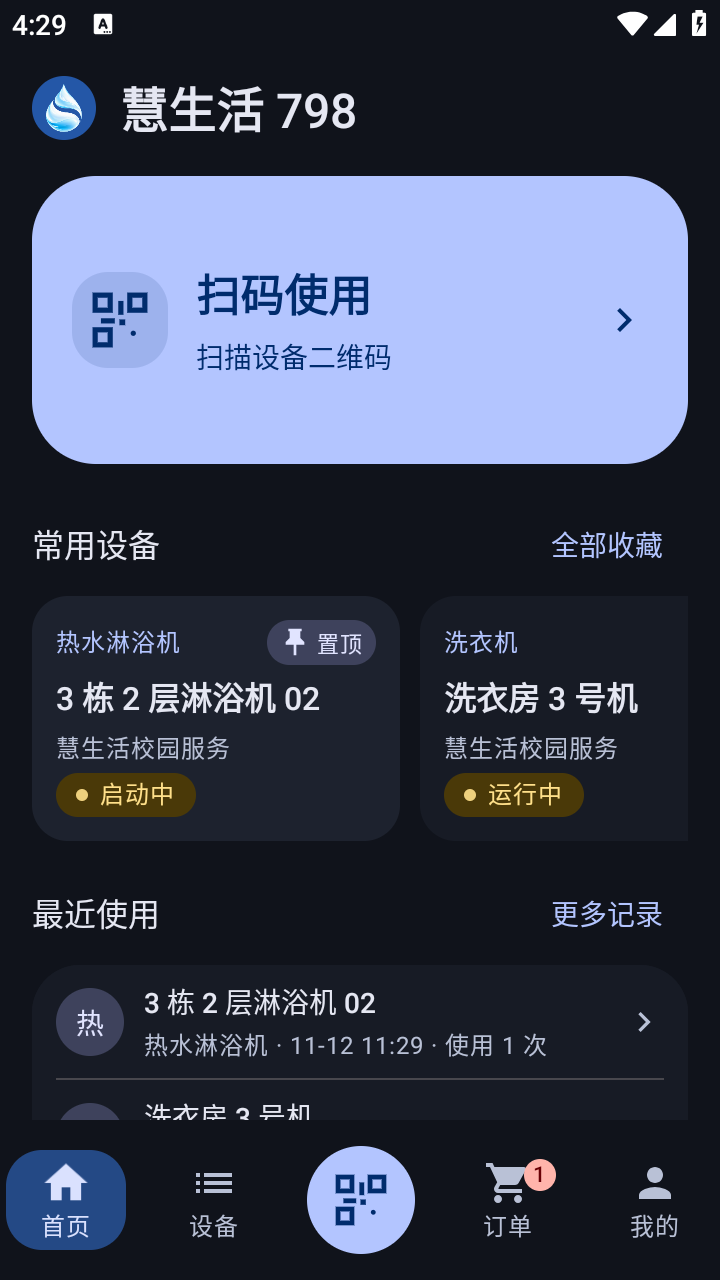
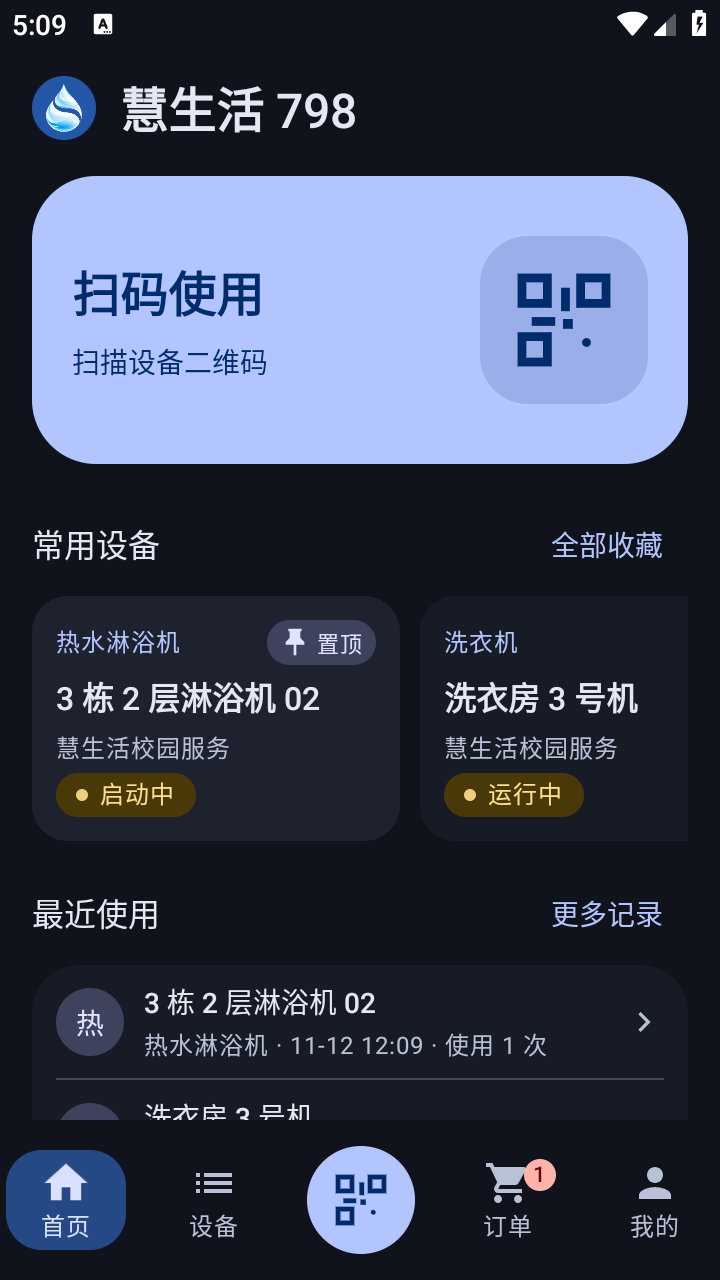
fix(ui): 重新适配首页扫码卡内部布局

diff --git a/SmartLife798/app/src/main/java/com/smartlife798/app/ui/HomeScreen.kt b/SmartLife798/app/src/main/java/com/smartlife798/app/ui/HomeScreen.kt
@@ -289,26 +289,25 @@ private fun ScanHeroCard(onScan: () -> Unit, modifier: Modifier = Modifier) {
                 .heightIn(min = 144.dp)
                 .padding(horizontal = 20.dp, vertical = AppLayout.Card),
             verticalAlignment = Alignment.CenterVertically,
-            horizontalArrangement = Arrangement.spacedBy(14.dp),
+            horizontalArrangement = Arrangement.spacedBy(16.dp),
         ) {
-            Box(
-                modifier = Modifier
-                    .size(48.dp)
-                    .clip(MaterialTheme.shapes.medium)
-                    .background(palette.content.copy(alpha = 0.12f)),
-                contentAlignment = Alignment.Center,
-            ) {
-                QrGlyph(palette.content, Modifier.size(26.dp))
-            }
-            Column(Modifier.weight(1f), verticalArrangement = Arrangement.spacedBy(4.dp)) {
+            Column(Modifier.weight(1f), verticalArrangement = Arrangement.spacedBy(6.dp)) {
                 Text(
                     "扫码使用",
-                    style = MaterialTheme.typography.titleLarge,
+                    style = MaterialTheme.typography.headlineSmall,
                     fontWeight = FontWeight.SemiBold,
                 )
                 Text("扫描设备二维码", style = MaterialTheme.typography.bodyMedium)
             }
-            Icon(Icons.AutoMirrored.Filled.KeyboardArrowRight, contentDescription = null)
+            Box(
+                modifier = Modifier
+                    .size(84.dp)
+                    .clip(MaterialTheme.shapes.large)
+                    .background(palette.content.copy(alpha = 0.14f)),
+                contentAlignment = Alignment.Center,
+            ) {
+                QrGlyph(palette.content, Modifier.size(44.dp))
+            }
         }
     }
 }

diff --git a/SmartLife798/app/src/androidTest/java/com/smartlife798/app/VisualAlignmentChecks.kt b/SmartLife798/app/src/androidTest/java/com/smartlife798/app/VisualAlignmentChecks.kt
@@ -173,6 +173,14 @@ object VisualAlignmentChecks {
             await { find(test, "手动输入") != null }
             back()
             await { find(test, "扫码使用") != null }
+            stage = "scanner QR icon tap"
+            SystemClock.sleep(500)
+            val iconCard = cardBounds(test, "扫码使用")
+            val iconX = iconCard.right - (62 * density).toInt()
+            shell(test, "input tap $iconX ${iconCard.centerY()}")
+            await { find(test, "手动输入") != null }
+            back()
+            await { find(test, "扫码使用") != null }
             stage = "login"
             test.runOnMainSync { vm.logout() }
             await {

diff --git a/docs/02-功能设计与UI方案.md b/docs/02-功能设计与UI方案.md
@@ -150,7 +150,7 @@ App
 - 顶部显示应用图标与「慧生活 798」，页面沿统一边距对齐，普通分组间隔为 12dp，支持下拉刷新。
 - **进行中使用卡片**优先置于扫码入口上方（主题 tertiary 色）：受理后先显示「启动待确认」，不显示用时或声称运行；确认后显示服务端状态、更新时间与本机用时。结束使用为卡片主按钮，下方提供查看设备和使用记录。结束期间保持卡片和「正在结束…」；未确认则提示并保留查询入口。返回首页与重建恢复、轮询及并发规则见 [启动确认与对账](03-技术方案与开发计划.md#31-全自动刷新无手动刷新按钮)。
 
-- **扫码主卡**：二维码图标、操作标题与一句说明，整卡最小高度为 144dp，上下与相邻区块至少间隔 16dp，点击卡片打开相机。
+- **扫码主卡**：左侧放操作标题与说明，右侧放二维码图标，整卡最小高度为 144dp，上下与相邻区块至少间隔 16dp，点击卡片打开相机。
 - **常用设备**采用横滑卡片。多个收藏时，360dp 默认字号下单卡宽 184dp，让下一台设备露出更多；内容区能容纳两张易读卡片时并排完整展示。窄屏大字下卡片随字号加宽，单个收藏时占满内容区。卡片显示类型、名称、位置或编号、状态及置顶标记。
 - **最近使用**在同一容器中列出最多四条记录，使用紧凑的分隔行，每行触控区域至少 48dp；显示设备名称、类型、日期时间和使用次数。
 - 常用设备为空时提示从设备详情收藏，最近使用为空时提示暂无记录。
@@ -316,7 +316,7 @@ App
 - 底部导航（Expressive）：4 项 + 中央 54dp 官方增强扫码按钮；选中项为药丸高亮 + 图标 1.08 倍弹性缩放 + 颜色渐变，未选中项使用 onSurfaceVariant。待付角标放在图标槽内，不越过药丸裁剪边界，保持大字体下数字完整与各项图标/文字基线一致。
 - 主题采用官方 `MaterialExpressiveTheme` 与 `MotionScheme.expressive()`；主按钮、文字和图标按钮使用官方按压形变。设备/订单分栏、筛选、设备类型、模式和渠道使用带自动溢出的 `ButtonGroup`；全部可见时按压扩张 25%，相邻按钮随之让位并回弹，溢出时停用宽度扩张以免覆盖「更多」，保留官方按钮形变。启动页与外观使用共享交互源的官方宽度动效，保持仅背景选中和单选语义，大字选项自然换行并垂直居中。扫码使用增强 `FilledIconButton`。刷新指示器使用 `surfaceContainerHigh` 中性底与 `primary` 图形，保留官方下拉与形变加载，浅色、深色及动态取色共用主题语义色。设备/订单第一行分栏使用实心主色选中，第二行类型/账单筛选使用低强调色调与较小文字，未选中项也使用 surfaceContainerHighest 背景与 outlineVariant 边界；统一选择按钮的基础与选中圆角为 14dp，按压仍使用官方形变。按钮、选择与加载沿用系统动画倍率，无额外固定操作锁。
 - 加载：页面使用 `ContainedLoadingIndicator`，按钮内使用 `LoadingIndicator`，下拉刷新使用固定组合的官方轻量 `PullToRefreshDefaults.Indicator`，避免手势首帧创建复杂形变组件；拉动距离、松手和刷新沿用同一个手势状态。长任务与更新下载使用 `LinearWavyProgressIndicator`；下载仍显示真实字节百分比，未确定进度不伪装为确定进度。删除旧自绘波浪实现。
-- 首页扫码主卡与中央扫码按钮共用高亮主题配对和二维码图标；主卡使用 titleLarge 标题和 bodyMedium 说明。首页的触控反馈沿用 Material 组件，空态使用简短的文字提示。
+- 首页扫码主卡与中央扫码按钮共用高亮主题配对和二维码图标；主卡使用 headlineSmall 标题和 bodyMedium 说明，二维码图标位于 84dp 色块内。首页的触控反馈沿用 Material 组件，空态使用简短的文字提示。
 - 按压反馈由增强组件的形状与主题动效驱动；共享卡片与页面切换规则见下节，不为按钮再叠统一缩放或固定时长。
 - 状态胶囊、指标块、信息行、空态、错误态、提示条、设备卡、账单行、底部详情面板。
 
@@ -361,7 +361,7 @@ App
 
 | 页面 | 文件 | 来源与限制 |
 |---|---|---|
-| 首页 | [home.png](../screenshots/home.png) | 2.2.9 / 89 离线开发构建，API 28，默认字号 |
+| 首页 | [home.png](../screenshots/home.png) | 2.2.10 / 90 离线开发构建，API 28，默认字号 |
 | 设备 | [devices.png](../screenshots/devices.png) | 2.1.1，浅色列表、置顶优先与可辨识的未选中按钮 |
 | 订单 | [orders.png](../screenshots/orders.png) | 2.1.1，普通记录 |
 | 待付款 | [preview_bills.png](../screenshots/preview_bills.png) | 2.1.1，账单筛选 |
@@ -373,7 +373,7 @@ App
 | 提示条 | [notice.png](../screenshots/notice.png) | 1.19.6，真实 Snackbar + 虚构签到响应 |
 | 账单详情 | [bill_detail.png](../screenshots/bill_detail.png) | 当前离线开发构建，固定视口、左暂不支付右去支付且等宽等高 |
 | 浅色支付面板 | [payment.png](../screenshots/payment.png) | 2.1.1，仅读取渠道，零付款/命令请求 |
-| 深色首页 | [dark.png](../screenshots/dark.png) | 2.2.9 / 89 离线开发构建，API 28，默认字号 |
+| 深色首页 | [dark.png](../screenshots/dark.png) | 2.2.10 / 90 离线开发构建，API 28，默认字号 |
 | 深色外观 | [appearance_dark.png](../screenshots/appearance_dark.png) | 本次样式开发构建 2.1.2 / 70，API 28，深色更新按钮与选项层级 |
 | 深色支付面板 | [payment_dark.png](../screenshots/payment_dark.png) | 2.1.1，未提交付款 |
 | 首次使用 | [guide-first.png](../screenshots/guide-first.png) | 2.1.1，独立离线包，三页基础卡 |

diff --git a/README.md b/README.md
@@ -6,7 +6,7 @@
 |---|---|
 | 正式版包名 | `com.smartlife798.app` |
 | Beta 版包名 | `com.smartlife798.app.debug` |
-| 当前版本 | `2.2.9`（`versionCode 89`） |
+| 当前版本 | `2.2.10`（`versionCode 90`） |
 | 技术栈 | Kotlin 2.2 · Jetpack Compose (Material 3 Expressive) · OkHttp · CameraX + ML Kit · Alipay SDK |
 | 最低版本 | Android 7.0（API 24） |
 | 正式发布 | [最新 Release](https://github.com/wu-shanglin/Smartlife798/releases/latest) |
@@ -15,7 +15,7 @@
 
 ## 当前版本
 
-**2.2.9 / 89**（开发候选）：首页扫码卡最小高度提高至 144dp，增加与相邻区块的间距；设备详情移除「订单」跳转。
+**2.2.10 / 90**（开发候选）：首页扫码卡采用左侧文字、右侧二维码图标的布局。
 
 **2.1.11 / 79** 适配原版 3.1.10 短信登录签名，补齐登录请求的 `sign` 参数。签名通过原版合成向量及离线登录验证，真实账号验收待完成。详见 [登录签名](docs/01-逆向分析报告.md#51-登录与账号)。
 
@@ -49,13 +49,13 @@
 
 ## 构建与产物
 
-2.2.9 为开发候选版本，日常试装使用独立 Debug 包。
+2.2.10 为开发候选版本，日常试装使用独立 Debug 包。
 
 唯一 Android 工程为 `SmartLife798/`；先按 [构建与运行](docs/03-技术方案与开发计划.md#4-构建与运行) 准备 JDK/SDK、本机 `local.properties`，再按 [检查与证据](docs/06-工程规范与路线图.md#2-检查与证据) 执行适用检查。release 签名及产物准备见 [版本与发布](docs/06-工程规范与路线图.md#3-版本与发布)。
 
 | 本地构建 | 文件 |
 |---|---|
-| 产物 | [`dist/SmartLife798-2.2.9-release.apk`](dist/SmartLife798-2.2.9-release.apk) |
+| 产物 | [`dist/SmartLife798-2.2.10-release.apk`](dist/SmartLife798-2.2.10-release.apk) |
 
 日常试装使用 `SmartLife798/app/build/outputs/apk/debug/app-debug.apk`。桌面的「慧生活 798 Beta 版」可与正式版并存，分别保存应用数据。上表是正式发布时的产物路径，只有明确授权打包 Release 并发布后才生成。
 
@@ -65,7 +65,7 @@
 
 ## 截图
 
-浅色、深色首页与设备详情截图来自 2.2.9 / 89 的 API 28 离线构建；其他主要截图来自 2.1.1 / 69 候选的独立 `.offline` 夹具，使用真实 Compose 页面与终止式传输采集；此前默认字号与窄屏大字完成操作回归，不代表真机帧率、签到、充值或支付验收。提示条保留历史夹具来源。来源与限制见 [截图清单](docs/02-功能设计与UI方案.md#7-界面截图)。
+浅色和深色首页截图来自 2.2.10 / 90 的 API 28 离线构建，设备详情截图来自 2.2.9 / 89；其他主要截图来自 2.1.1 / 69 候选的独立 `.offline` 夹具，使用真实 Compose 页面与终止式传输采集；此前默认字号与窄屏大字完成操作回归，不代表真机帧率、签到、充值或支付验收。提示条保留历史夹具来源。来源与限制见 [截图清单](docs/02-功能设计与UI方案.md#7-界面截图)。
 
 | 首页 | 设备 | 订单 |
 |---|---|---|

diff --git a/CHANGELOG.md b/CHANGELOG.md
@@ -7,6 +7,8 @@
 
 ## [Unreleased]
 
+- 同步扫码卡内部排版说明与浅色、深色首页截图。
+
 - 同步首页扫码卡、设备详情操作区的设计说明与截图。
 
 - 更新紧凑版首页设计说明和浅色、深色截图。
@@ -31,6 +33,12 @@
 - 核对 2.1.10 正式发布及公开更新附件。
 
 - 任务分支完成后同步清理已合并且不再使用的本地和远端分支。
+
+## [2.2.10] - 2026-11-12
+
+> Beta 构建，未正式发布。
+
+- 重新适配首页扫码卡的内部布局，左侧为标题与说明，右侧为放大的二维码图标。
 
 ## [2.2.9] - 2026-11-12
 
